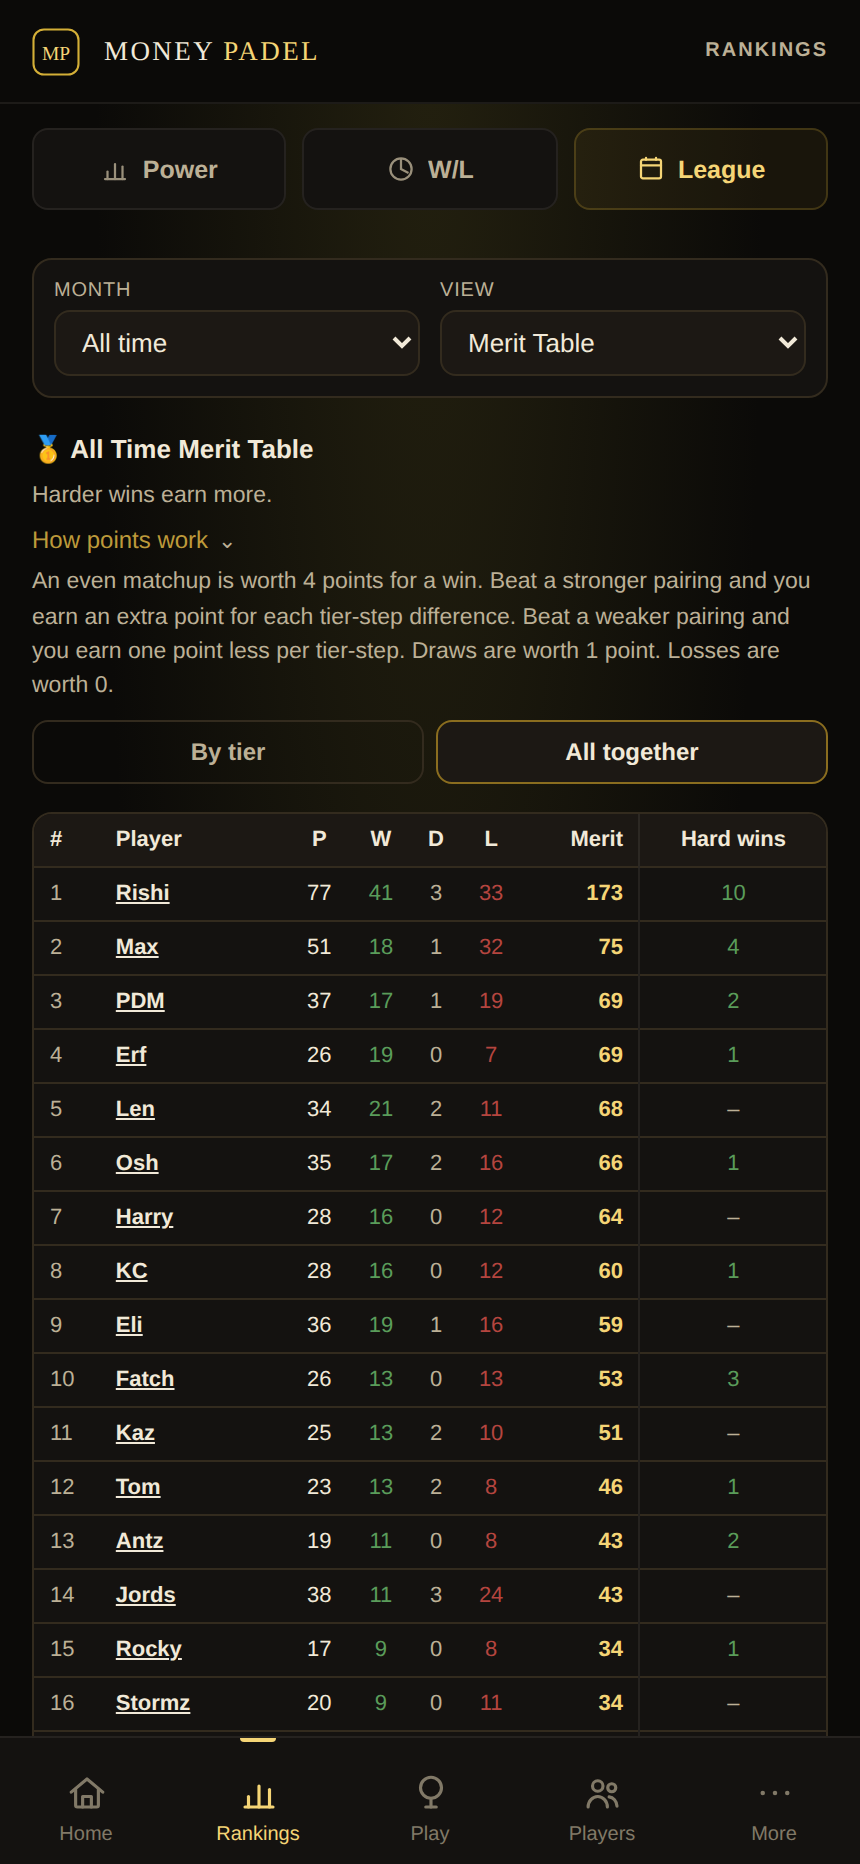
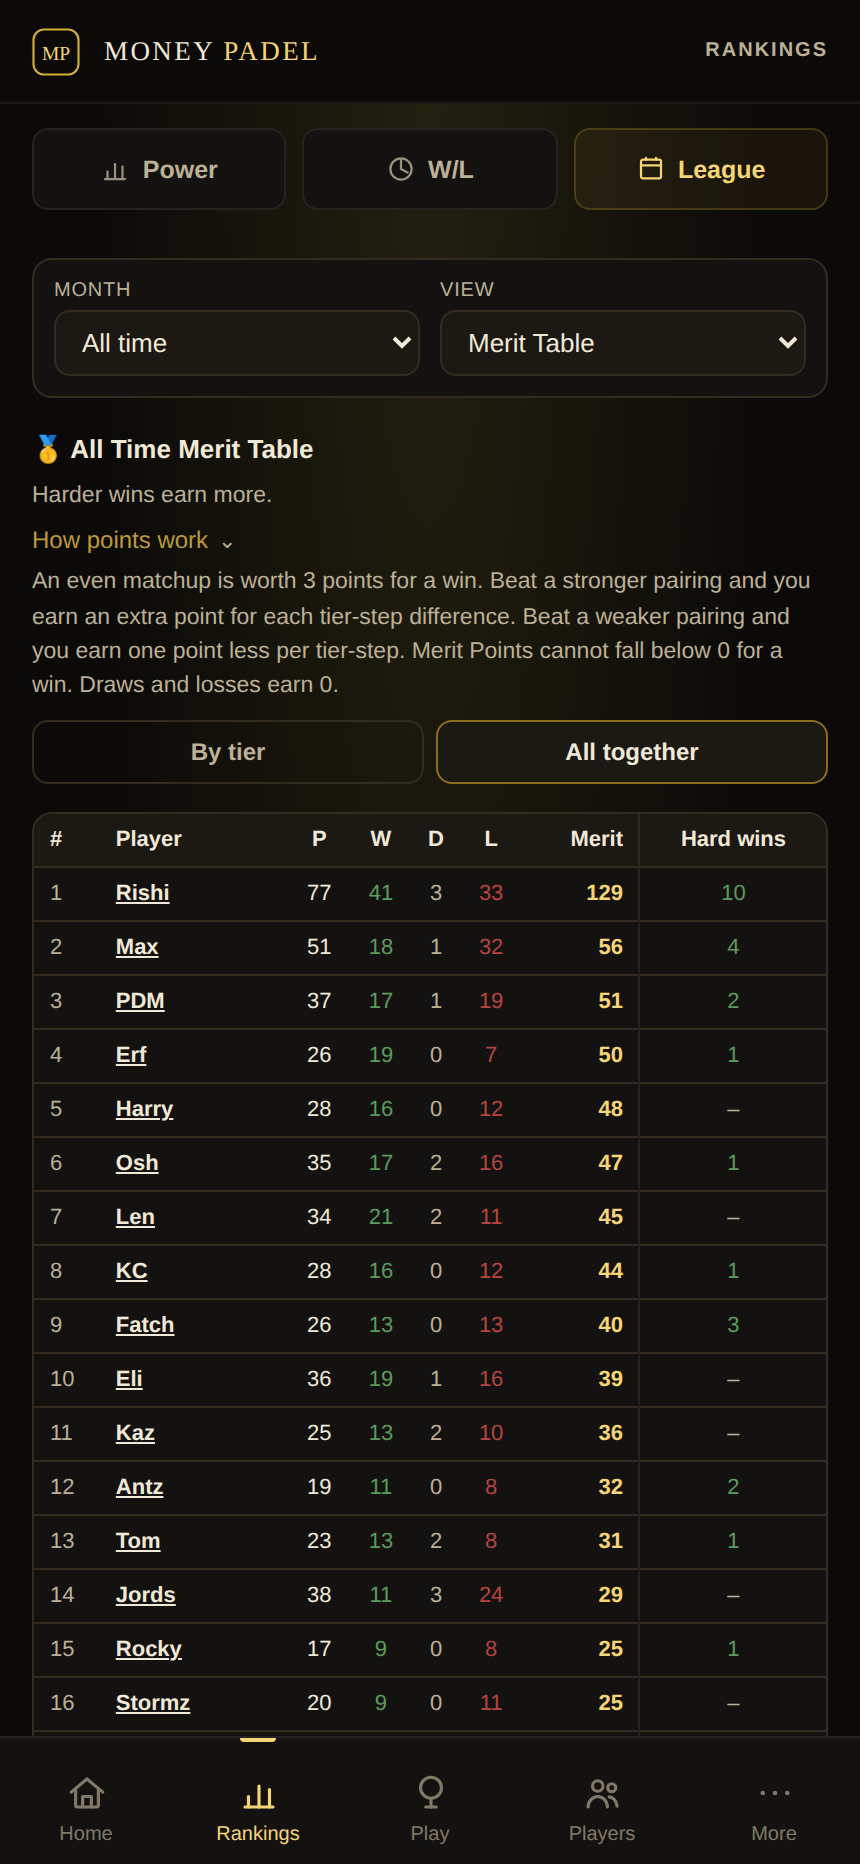
Merit: a 3-point baseline, so the two tables share one
Shaun, after reviewing the working 4/1/0 model side by side with the League
Table. A scoring refinement to the feature already built -- no UI change, and
nothing touched in historical tier resolution, partnership strength, the
split-month treatment, month selection, tier sections, League scoring, Power
Ratings, ratingJourney, expectations or reassessment.

An even matchup is now worth 3, exactly a standard League win. Merit then
departs from League points ONLY because of fixture difficulty: easier wins
score lower, equal wins the same, harder wins higher. Ten balanced wins give
30 in both tables, which is the whole relationship in one sentence.

Draws drop from 1 to 0. The six in the record ended early through injury or a
time constraint rather than as competitive draws, so they are not results
Merit should pay for. Merit now measures the value of matches actually won,
adjusted for how hard they were. A draw is still a game played; it just pays
nothing.

A win is floored at 0. No ceiling -- an extreme matchup should be reported,
not clamped -- but beating a much weaker pairing can be worth nothing and
must never be worth less than losing.

RE-AUDITED OVER THE FULL HISTORY. 159 matches, 0 unresolved tiers, gaps
unchanged at 93 even / 60 one-step / 6 two-step (a property of the data, not
the formula). Win values now range 1..4, nothing outside the brief's 0..6, no
negatives, and the floor never engages on real data -- it would take a
[…]

diff --git a/tests/meritTable.test.js b/tests/meritTable.test.js
@@ -4,7 +4,7 @@ const Merit = require('../assets/js/meritTable.js');
 const TierHistory = require('../assets/js/tierHistory.js');
 
 // A fixed tier map, so these tests are about the scoring and nothing else.
-const TIERS = { Sam: 'S', Ana: 'A', Amy: 'A', Aly: 'A', Abe: 'A',
+const TIERS = { Sam: 'S', Sal: 'S', Ana: 'A', Amy: 'A', Aly: 'A', Abe: 'A',
   Ben: 'B', Bob: 'B', Bea: 'B', Cal: 'C', Cat: 'C' };
 const flat = (name) => TIERS[name] || null;
 
@@ -14,50 +14,67 @@ const pointsFor = (winners, losers, extra) => Merit.scoreMatch(match(winners, lo
 
 // ---- the table of values the brief specifies -------------------------------
 
-test('AA vs AA → 4', () => {
-  // Ana & Amy are both A; Ben and Bob stand in for the other A pair by tier.
-  assert.strictEqual(pointsFor(['Ana', 'Amy'], ['Aly', 'Abe']).Ana, 4);
+test('AA vs AA → 3', () => {
+  assert.strictEqual(pointsFor(['Ana', 'Amy'], ['Aly', 'Abe']).Ana, 3);
 });
 
-test('AB vs AB → 4', () => {
+test('AB vs AB → 3', () => {
   const p = pointsFor(['Ana', 'Ben'], ['Amy', 'Bob']);
-  assert.strictEqual(p.Ana, 4);
-  assert.strictEqual(p.Ben, 4, 'both teammates score alike');
+  assert.strictEqual(p.Ana, 3);
+  assert.strictEqual(p.Ben, 3, 'both teammates score alike');
   assert.strictEqual(p.Amy, 0);
 });
 
-test('AC vs BB → 4, because a pairing is a sum and not its best player', () => {
+test('AC vs BB → 3, because a pairing is a sum and not its best player', () => {
   const p = pointsFor(['Ana', 'Cal'], ['Ben', 'Bob']);
-  assert.strictEqual(p.Ana, 4, 'A+C equals B+B');
-  assert.strictEqual(p.Cal, 4);
+  assert.strictEqual(p.Ana, 3, 'A+C equals B+B');
+  assert.strictEqual(p.Cal, 3);
   assert.strictEqual(p.Ben, 0);
-  // The same fixture the other way round is also even.
-  assert.strictEqual(pointsFor(['Ben', 'Bob'], ['Ana', 'Cal']).Ben, 4);
+  assert.strictEqual(pointsFor(['Ben', 'Bob'], ['Ana', 'Cal']).Ben, 3, 'and the other way round');
 });
 
-test('one tier-step: AB beats BB → 3, BB beats AB → 5', () => {
-  assert.strictEqual(pointsFor(['Ana', 'Ben'], ['Bob', 'Bea']).Ana, 3);
-  assert.strictEqual(pointsFor(['Bob', 'Bea'], ['Ana', 'Ben']).Bob, 5);
+test('an even win is worth exactly a standard League win', () => {
+  // The point of the 3-point baseline: the two tables share it, and Merit
+  // departs from League points only because of fixture difficulty.
+  const LEAGUE_WIN = 3;
+  assert.strictEqual(Merit.BASELINE, LEAGUE_WIN);
+  assert.strictEqual(pointsFor(['Ana', 'Ben'], ['Amy', 'Bob']).Ana, LEAGUE_WIN);
 });
 
-test('two tier-steps: the favourite earns 2, the underdog 6', () => {
-  assert.strictEqual(pointsFor(['Ana', 'Amy'], ['Ben', 'Bob']).Ana, 2, 'AA beats BB');
-  assert.strictEqual(pointsFor(['Ben', 'Bob'], ['Ana', 'Amy']).Ben, 6, 'BB beats AA');
+test('one tier-step: AB beats BB → 2, BB beats AB → 4', () => {
+  assert.strictEqual(pointsFor(['Ana', 'Ben'], ['Bob', 'Bea']).Ana, 2);
+  assert.strictEqual(pointsFor(['Bob', 'Bea'], ['Ana', 'Ben']).Bob, 4);
 });
 
-test('three tier-steps: the favourite earns 1, the underdog 7', () => {
-  // SA (4+3=7) vs BC (2+1=3) is a four-step gap; SS vs AA is two. SA vs CC is
-  // four. A three-step gap: AA (6) vs BC (3).
-  assert.strictEqual(pointsFor(['Ana', 'Amy'], ['Ben', 'Cal']).Ana, 1, 'AA beats BC');
-  assert.strictEqual(pointsFor(['Ben', 'Cal'], ['Ana', 'Amy']).Ben, 7, 'BC beats AA');
+test('two tier-steps: AA beats BB → 1, BB beats AA → 5', () => {
+  assert.strictEqual(pointsFor(['Ana', 'Amy'], ['Ben', 'Bob']).Ana, 1);
+  assert.strictEqual(pointsFor(['Ben', 'Bob'], ['Ana', 'Amy']).Ben, 5);
 });
 
-test('a draw is one point each, whatever the matchup', () => {
+test('three tier-steps: AA beats BC → 0, BC beats AA → 6', () => {
+  assert.strictEqual(pointsFor(['Ana', 'Amy'], ['Ben', 'Cal']).Ana, 0,
+    'beating a much weaker pairing can be worth nothing');
+  assert.strictEqual(pointsFor(['Ben', 'Cal'], ['Ana', 'Amy']).Ben, 6);
+});
+
+test('a win is floored at nothing and never goes negative', () => {
+  // Four steps: SS (8) over CC (2) is six steps; SA (7) over BB (4) is three.
+  // SS over BB is four.
+  const fourStep = pointsFor(['Sam', 'Sal'], ['Ben', 'Bob']);
+  assert.strictEqual(fourStep.Sam, 0, 'a four-step favourite win is 0, not -1');
+  const sixStep = pointsFor(['Sam', 'Sal'], ['Cal', 'Cat']);
+  assert.strictEqual(sixStep.Sam, 0, 'and a six-step one is still 0, not -3');
+  assert.strictEqual(Merit.MIN_WIN_POINTS, 0);
+  // The underdog side is deliberately NOT capped.
+  assert.strictEqual(pointsFor(['Cal', 'Cat'], ['Sam', 'Sal']).Cal, 9, 'six steps the other way is 3 + 6');
+});
+
+test('a draw is worth nothing, whatever the matchup', () => {
+  // These ended early through injury or time, not as competitive draws.
   const even = Merit.scoreMatch(match(['Ana', 'Amy'], ['Ben', 'Bob'], { isDraw: true }), flat);
-  assert.deepStrictEqual(even.points, { Ana: 1, Amy: 1, Ben: 1, Bob: 1 });
+  assert.deepStrictEqual(even.points, { Ana: 0, Amy: 0, Ben: 0, Bob: 0 });
   assert.strictEqual(even.steps, 2, 'even though this one was a two-step mismatch');
-  const level = Merit.scoreMatch(match(['Ana', 'Ben'], ['Amy', 'Bob'], { isDraw: true }), flat);
-  assert.deepStrictEqual(level.points, { Ana: 1, Ben: 1, Amy: 1, Bob: 1 });
+  assert.strictEqual(Merit.DRAW_POINTS, 0);
 });
 
 test('a loss is worth nothing', () => {
@@ -90,14 +107,15 @@ test('reversing the sides or the players changes nothing', () => {
   const otherWay = pointsFor(['Bob', 'Cal'], ['Ana', 'Ben']);
   assert.strictEqual(base.Ana + otherWay.Bob, Merit.BASELINE * 2,
     'favourite win and underdog win are symmetric about the baseline');
+  assert.strictEqual(Merit.BASELINE, 3, 'and the baseline is a standard League win');
 });
 
 test('it is the sum of the pairing, never its best player', () => {
   // Both sides contain an A, but the sums differ by one step.
   const p = pointsFor(['Ana', 'Ben'], ['Amy', 'Cal']);
-  assert.strictEqual(p.Ana, 3, 'AB over AC is a one-step favourite win');
+  assert.strictEqual(p.Ana, 2, 'AB over AC is a one-step favourite win');
   // Both sides contain a C, and the sums are equal.
-  assert.strictEqual(pointsFor(['Ana', 'Cal'], ['Ben', 'Bob']).Ana, 4);
+  assert.strictEqual(pointsFor(['Ana', 'Cal'], ['Ben', 'Bob']).Ana, 3);
 });
 
 test('an unknown tier is reported rather than guessed', () => {
@@ -133,14 +151,14 @@ test('a match uses the tier the player held on the day, not today\'s', () => {
   const before = Merit.scoreMatch(
     { id: 'a', date: '2026-09-13', winners: ['Rishi', 'Ben'], losers: ['Ana', 'Amy'], isDraw: false }, tierAt);
   assert.strictEqual(before.winnerTiers[0], 'B');
-  assert.strictEqual(before.points.Rishi, 6, 'BB over AA is worth 6');
+  assert.strictEqual(before.points.Rishi, 5, 'BB over AA is worth 5');
 
   // The same fixture after the change is AB over AA — one step, favourite the
   // other way, so an underdog win worth 5.
   const after = Merit.scoreMatch(
     { id: 'b', date: '2026-09-21', winners: ['Rishi', 'Ben'], losers: ['Ana', 'Amy'], isDraw: false }, tierAt);
   assert.strictEqual(after.winnerTiers[0], 'A');
-  assert.strictEqual(after.points.Rishi, 5, 'AB over AA is worth 5');
+  assert.strictEqual(after.points.Rishi, 4, 'AB over AA is worth 4');
 });
 
 test('a reassessment changes Merit only from its effective date', () => {
@@ -156,21 +174,21 @@ test('a reassessment changes Merit only from its effective date', () => {
 test('a mid-month mover appears in both tier sections, holding only what each earned', () => {
   const tierAt = history().tierAsOf;
   const matches = [
-    { id: '1', date: '2026-09-13', winners: ['Rishi', 'Ben'], losers: ['Ana', 'Amy'], isDraw: false }, // as a B: 6
-    { id: '2', date: '2026-09-21', winners: ['Rishi', 'Ben'], losers: ['Ana', 'Amy'], isDraw: false }, // as an A: 5
+    { id: '1', date: '2026-09-13', winners: ['Rishi', 'Ben'], losers: ['Ana', 'Amy'], isDraw: false }, // as a B: 5
+    { id: '2', date: '2026-09-21', winners: ['Rishi', 'Ben'], losers: ['Ana', 'Amy'], isDraw: false }, // as an A: 4
   ];
   const { table } = Merit.build(matches, tierAt, { tierForRow: tierAt });
   const rishiRows = table.filter((r) => r.playerId === 'Rishi');
   assert.strictEqual(rishiRows.length, 2, 'one row per tier occupied');
   const byTier = Object.fromEntries(rishiRows.map((r) => [r.tier, r]));
-  assert.strictEqual(byTier.B.merit, 6);
-  assert.strictEqual(byTier.A.merit, 5);
+  assert.strictEqual(byTier.B.merit, 5);
+  assert.strictEqual(byTier.A.merit, 4);
   assert.strictEqual(byTier.B.played, 1);
   assert.strictEqual(byTier.A.played, 1);
 
   // All together is one row for the whole period.
   const whole = Merit.build(matches, tierAt).table.find((r) => r.playerId === 'Rishi');
-  assert.strictEqual(whole.merit, 11, 'and the two segments sum to the whole');
+  assert.strictEqual(whole.merit, 9, 'and the two segments sum to the whole');
   assert.strictEqual(whole.played, 2);
 });
 
@@ -178,28 +196,30 @@ test('a mid-month mover appears in both tier sections, holding only what each ea
 
 test('a table totals merit and counts how it was earned', () => {
   const matches = [
-    { id: '1', date: '2026-09-01', winners: ['Ben', 'Bob'], losers: ['Ana', 'Amy'], isDraw: false }, // hard, 6
-    { id: '2', date: '2026-09-02', winners: ['Ben', 'Bob'], losers: ['Cal', 'Cat'], isDraw: false }, // easy, 2
-    { id: '3', date: '2026-09-03', winners: ['Ben', 'Bob'], losers: ['Ana', 'Cal'], isDraw: false }, // even, 4
-    { id: '4', date: '2026-09-04', winners: ['Ben', 'Bob'], losers: ['Ana', 'Amy'], isDraw: true },  // draw, 1
+    { id: '1', date: '2026-09-01', winners: ['Ben', 'Bob'], losers: ['Ana', 'Amy'], isDraw: false }, // hard, 5
+    { id: '2', date: '2026-09-02', winners: ['Ben', 'Bob'], losers: ['Cal', 'Cat'], isDraw: false }, // easy, 1
+    { id: '3', date: '2026-09-03', winners: ['Ben', 'Bob'], losers: ['Ana', 'Cal'], isDraw: false }, // even, 3
+    { id: '4', date: '2026-09-04', winners: ['Ben', 'Bob'], losers: ['Ana', 'Amy'], isDraw: true },  // draw, 0
   ];
   const row = Merit.build(matches, flat).table.find((r) => r.playerId === 'Ben');
-  assert.strictEqual(row.merit, 6 + 2 + 4 + 1);
+  assert.strictEqual(row.merit, 5 + 1 + 3 + 0);
   assert.strictEqual(row.played, 4);
   assert.strictEqual(row.wins, 3);
   assert.strictEqual(row.draws, 1);
   assert.deepStrictEqual([row.hardWins, row.evenWins, row.easyWins], [1, 1, 1]);
-  assert.strictEqual(row.bestWin, 6);
+  assert.strictEqual(row.bestWin, 5);
+  // A draw is still a game played, it just pays nothing.
+  assert.strictEqual(row.played, 4);
 });
 
 test('the table ranks on merit, then on how hard the wins were', () => {
   const matches = [
-    { id: '1', date: '2026-09-01', winners: ['Ben', 'Bob'], losers: ['Ana', 'Amy'], isDraw: false },  // Ben 6
-    { id: '2', date: '2026-09-02', winners: ['Cal', 'Cat'], losers: ['Ana', 'Ben'], isDraw: false },  // Cal 7
+    { id: '1', date: '2026-09-01', winners: ['Ben', 'Bob'], losers: ['Ana', 'Amy'], isDraw: false },  // Ben 5
+    { id: '2', date: '2026-09-02', winners: ['Cal', 'Cat'], losers: ['Ana', 'Ben'], isDraw: false },  // Cal 6
   ];
   const table = Merit.build(matches, flat).table;
-  assert.strictEqual(table[0].playerId, 'Cal', '7 outranks 6');
-  assert.strictEqual(table[0].merit, 7);
+  assert.strictEqual(table[0].playerId, 'Cal', '6 outranks 5');
+  assert.strictEqual(table[0].merit, 6);
 });
 
 test('the audit reports the shape of the history rather than clipping it', () => {
@@ -211,7 +231,7 @@ test('the audit reports the shape of the history rather than clipping it', () =>
   assert.strictEqual(a.decided, 2);
   assert.strictEqual(a.maxSteps, 3);
   assert.deepStrictEqual(a.stepHistogram, { 0: 1, 3: 1 });
-  assert.deepStrictEqual(a.extremes, [], 'nothing here falls outside 1..7');
+  assert.deepStrictEqual(a.extremes, [], 'nothing here falls outside 0..6');
 });
 
 test('nothing in this module reads a rating', () => {

diff --git a/assets/js/meritTable.js b/assets/js/meritTable.js
@@ -35,10 +35,22 @@
   // this table to the engine it must stay clear of.
   const TIER_LEVEL = { S: 4, A: 3, B: 2, C: 1 };
 
-  // An even matchup is worth this for a win.
-  const BASELINE = 4;
-  const DRAW_POINTS = 1;
+  // An even matchup is worth this for a win -- the same as a standard League
+  // win, deliberately. The two tables then share a baseline and Merit departs
+  // from League points ONLY because of fixture difficulty: easier wins score
+  // lower, equal wins the same, harder wins higher. Ten balanced wins give 30
+  // in both tables, which is the whole relationship in one sentence.
+  const BASELINE = 3;
+
+  // Nothing for a draw. The six in the record ended early through injury or a
+  // time constraint rather than as competitive draws, so they are not results
+  // Merit should pay for. Merit measures the value of matches actually WON,
+  // adjusted for how hard they were.
+  const DRAW_POINTS = 0;
   const LOSS_POINTS = 0;
+
+  // A win can be worth nothing, but never less than nothing.
+  const MIN_WIN_POINTS = 0;
 
   const levelOf = (tier) => (Object.prototype.hasOwnProperty.call(TIER_LEVEL, tier) ? TIER_LEVEL[tier] : null);
 
@@ -58,18 +70,19 @@
 
   // Merit for the winning side of one match.
   //
-  //   even            -> 4
-  //   favourite wins  -> 4 - steps
-  //   underdog wins   -> 4 + steps
+  //   even            -> 3
+  //   favourite wins  -> 3 - steps, floored at 0
+  //   underdog wins   -> 3 + steps
   //
-  // Deliberately uncapped, per the approved brief: a run of extreme matchups in
-  // the history should be reported, not silently clamped into looking ordinary.
-  // Note that a large enough favourite gap drives a win to zero or below, which
-  // is a real answer -- see `audit()`.
+  // No ceiling, per the approved brief: an extreme matchup in the history
+  // should be reported rather than silently clamped into looking ordinary. The
+  // floor is different in kind -- beating a much weaker pairing can be worth
+  // nothing, but it cannot be worth less than losing.
   function winPoints(winnerStrength, loserStrength) {
     if (winnerStrength === null || loserStrength === null) return null;
     const steps = Math.abs(winnerStrength - loserStrength);
-    return winnerStrength > loserStrength ? BASELINE - steps : BASELINE + steps;
+    if (winnerStrength > loserStrength) return Math.max(MIN_WIN_POINTS, BASELINE - steps);
+    return BASELINE + steps;
   }
 
   // What one match is worth to everyone in it.
@@ -196,7 +209,9 @@
       steps[scored.steps] = (steps[scored.steps] || 0) + 1;
       if (scored.isDraw) { draws++; return; }
       decided++;
-      if (scored.winPoints < 1 || scored.winPoints > 7) {
+      // The brief's worked examples run 0..6; anything outside that is worth
+      // showing a human before release.
+      if (scored.winPoints < 0 || scored.winPoints > 6) {
         extremes.push({
           id: scored.id, date: scored.date, steps: scored.steps, winPoints: scored.winPoints,
           winners: m.winners, winnerTiers: scored.winnerTiers,
@@ -214,7 +229,7 @@
   }
 
   return {
-    TIER_LEVEL, BASELINE, DRAW_POINTS, LOSS_POINTS,
+    TIER_LEVEL, BASELINE, DRAW_POINTS, LOSS_POINTS, MIN_WIN_POINTS,
     levelOf, strengthOf, winPoints, scoreMatch, build, audit,
   };
 });

diff --git a/assets/js/app.js b/assets/js/app.js
@@ -6996,7 +6996,7 @@ function renderMeritTable(){
   let html = `<div class="section-heading" style="margin-top:6px;">🥇 ${label} Merit Table</div>`;
   html += `<div class="section-sub" style="margin:2px 0 0;">Harder wins earn more.</div>`;
   html += leagueInlineFold('meritExplainerToggle', 'How points work', meritExplainerOpen,
-    `<div class="section-sub" style="margin:0;">An even matchup is worth 4 points for a win. Beat a stronger pairing and you earn an extra point for each tier-step difference. Beat a weaker pairing and you earn one point less per tier-step. Draws are worth 1 point. Losses are worth 0.</div>`);
+    `<div class="section-sub" style="margin:0;">An even matchup is worth 3 points for a win. Beat a stronger pairing and you earn an extra point for each tier-step difference. Beat a weaker pairing and you earn one point less per tier-step. Merit Points cannot fall below 0 for a win. Draws and losses earn 0.</div>`);
 
   html += `<div class="fg-toggle" style="margin:8px 0 14px;">
     <button class="fg-toggle-btn ${leagueGrouped?'active':''}" id="meritGroupedBtn">By tier</button>

diff --git a/tests/ui.test.js b/tests/ui.test.js
@@ -4578,8 +4578,11 @@ test('the Merit explanation is a quiet disclosure, closed by default', { skip },
           filled: !/rgba\(0, 0, 0, 0\)|transparent/.test(cs.backgroundColor) } };
     });
     assert.strictEqual(r.closed, true, 'closed by default');
-    assert.match(r.text, /An even matchup is worth 4 points for a win/);
-    assert.match(r.text, /Draws are worth 1 point. Losses are worth 0/);
+    assert.match(r.text, /An even matchup is worth 3 points for a win/,
+      'the baseline is a standard League win, and the copy says so');
+    assert.match(r.text, /cannot fall below 0 for a win/);
+    assert.match(r.text, /Draws and losses earn 0/);
+    assert.doesNotMatch(r.text, /worth 4 points|Draws are worth 1/, 'no trace of the superseded model');
     // Player-friendly: no implementation terminology on this copy.
     assert.doesNotMatch(r.text, /tier level|weight|sum of|Power Rating|expected/i);
     assert.match(r.weight.border, /^0px$/, 'a line, not a card');
